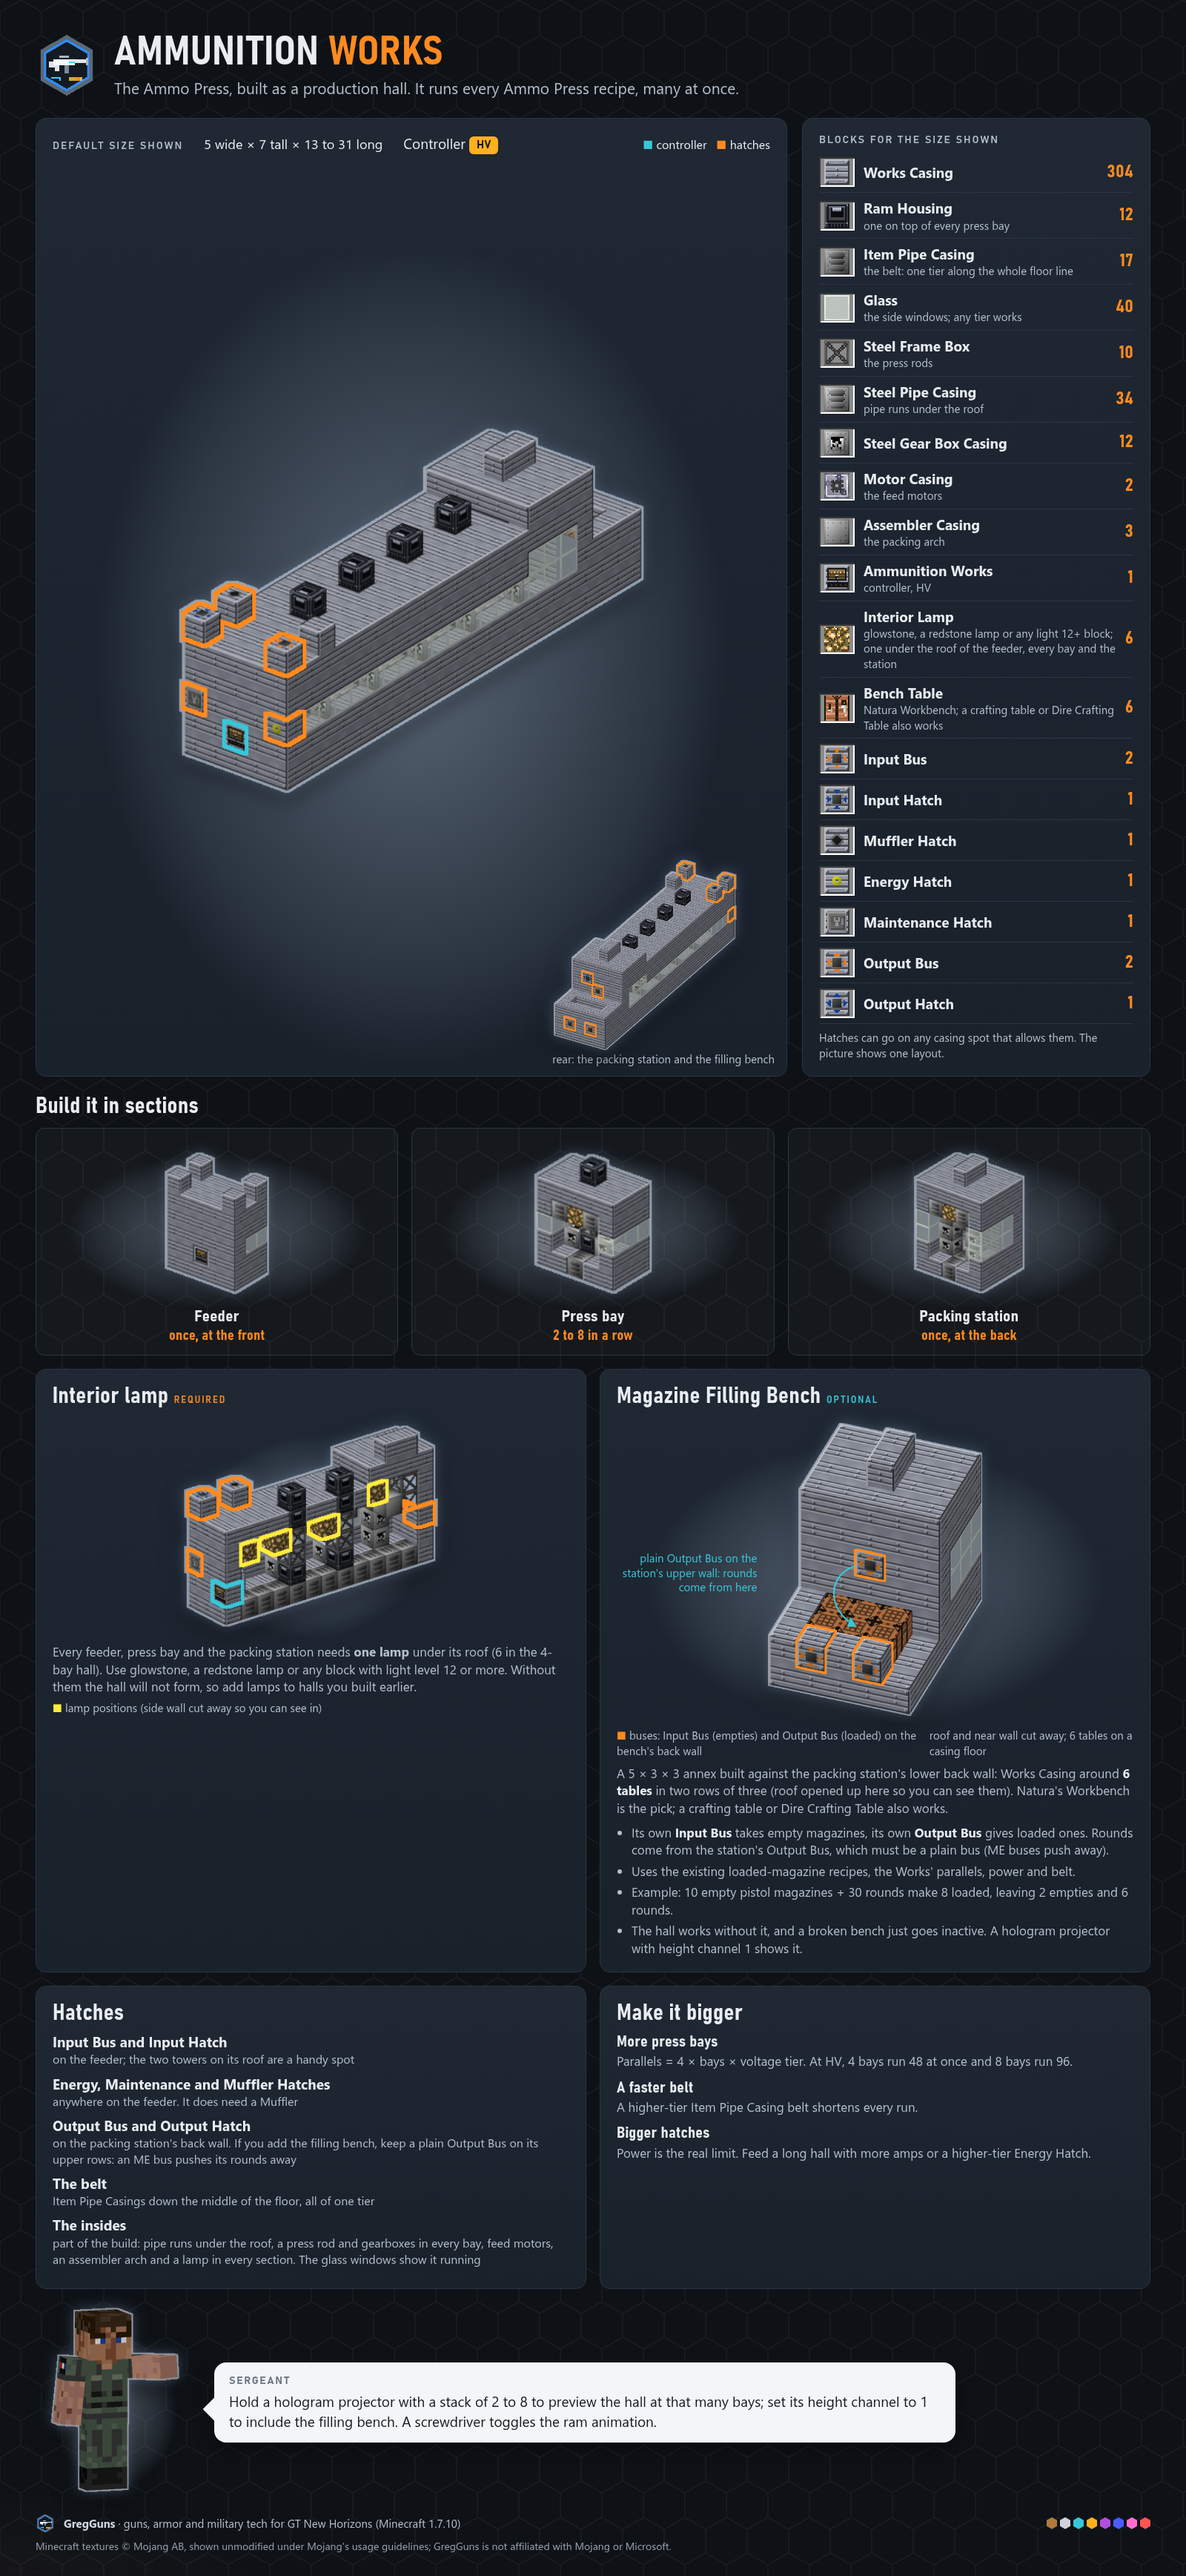
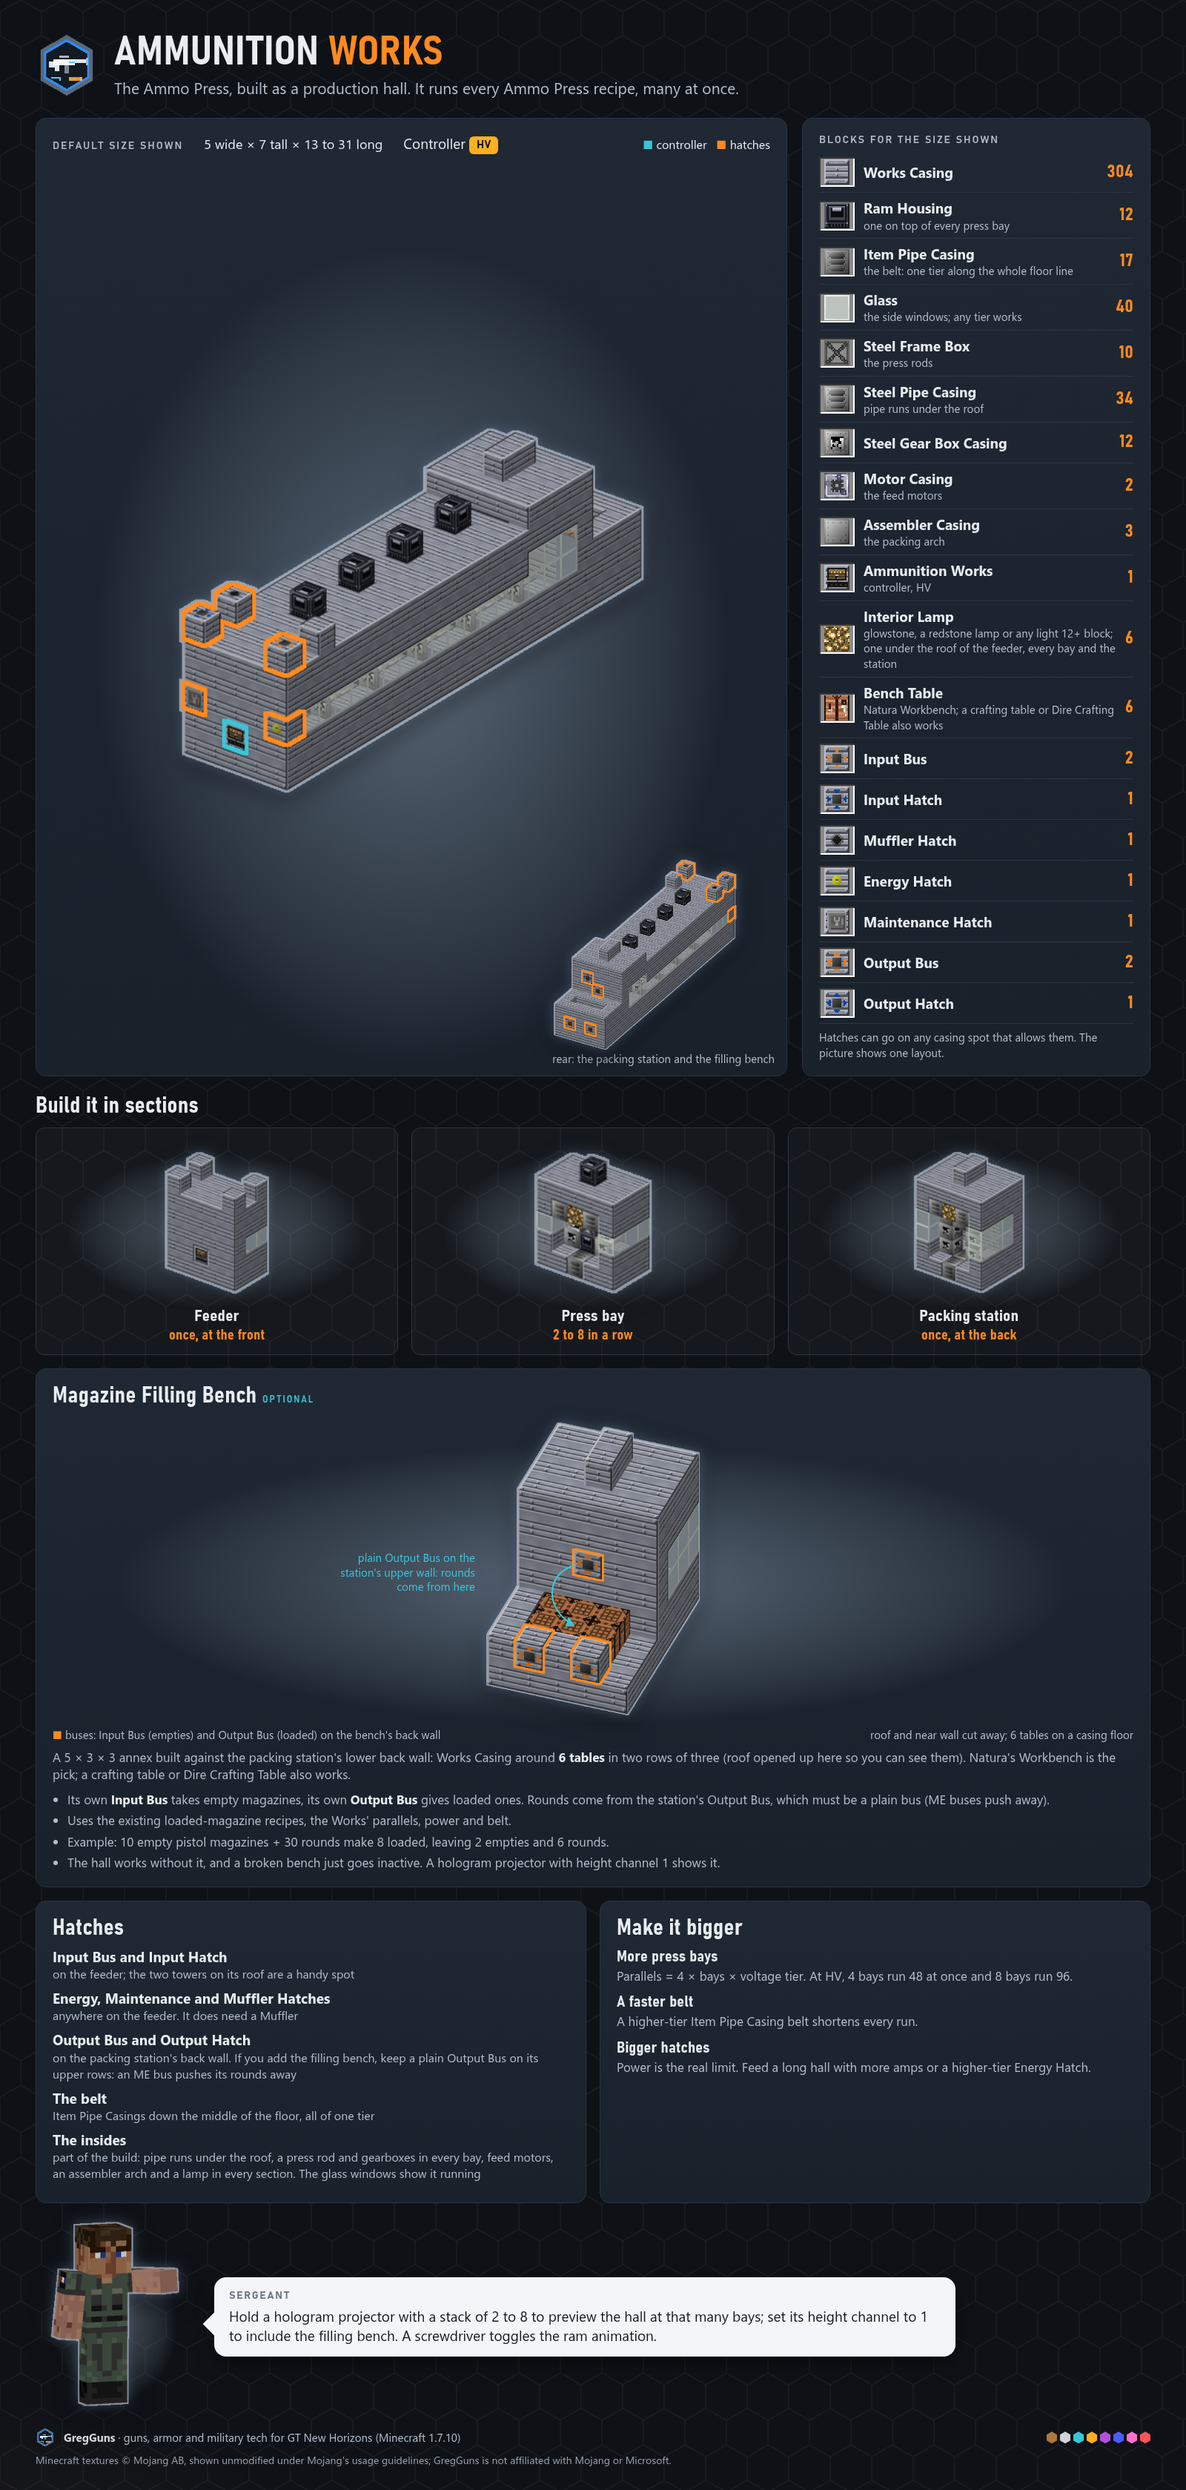
Seamless Gantry Beam hazard stripe; drop the interior-lamp card from the multiblock sheets
The Gantry Beam's stripe period (6 px) and its edge rivets did not divide the 16-px tile, so the stripe broke at
every block seam. Period 8 and rivets every 8 px make a row of beams read as one unbroken stripe. The sheets that
show the beam (Armory Gantry, machines, missile silo, detection and defense) are re-rendered.

The Ammunition Works and Armory Gantry sheets lose their dedicated interior-lamp card: the lamp stays in the block
list with its positions and in "The insides", as a plain part of the build.

diff --git a/tools/asset-gen/infographics/pages_more.py b/tools/asset-gen/infographics/pages_more.py
@@ -205,10 +205,7 @@ MB = {
         title="Ammunition <b>Works</b>",
         sub="The Ammo Press, built as a production hall. It runs every Ammo Press recipe, many at once.",
         build=lambda: S.ammo_works(4, bench=True), view=dict(yaw=-38, pitch=28, ppu=28), back=dict(yaw=150, pitch=30, ppu=30),
-        cut=dict(build=lambda: S.ammo_works(2), cut=lambda x, y, z: x <= 1, view=dict(yaw=-52, pitch=24, ppu=24)),
-        lamp_text="Every feeder, press bay and the packing station needs <b>one lamp</b> under its roof (6 in the 4-bay hall). "
-                  "Use glowstone, a redstone lamp or any block with light level 12 or more. Without them the hall will not form, "
-                  "so add lamps to halls you built earlier.",
+        mojang=True,
         pieces=[("FEEDER", "Feeder", "once, at the front"), ("BAY", "Press bay", "2 to 8 in a row"),
                 ("STATION", "Packing station", "once, at the back")],
         piece=lambda f: S.ammo_works(only=f), piece_view=dict(yaw=-38, pitch=28, ppu=18),
@@ -227,10 +224,7 @@ MB = {
         title="Armory <b>Gantry</b>",
         sub="The Repair Bench, built as a row of repair arches. It mends armor and guns from buses, ready for automation.",
         build=lambda: S.gantry(4), view=dict(yaw=-38, pitch=26, ppu=34), back=None,
-        cut=dict(build=lambda: S.gantry(2), cut=lambda x, y, z: x <= 2, view=dict(yaw=-52, pitch=24, ppu=34)),
-        lamp_text="The booth and every repair bay need <b>one lamp</b> under the beam (5 in the 4-bay gantry). "
-                  "Use glowstone, a redstone lamp or any block with light level 12 or more. Without them the gantry will not form, "
-                  "so add lamps to gantries you built earlier.",
+        mojang=True,
         pieces=[("HEAD", "Booth", "once, at the front"), ("BAY", "Repair bay", "2 to 8 in a row"),
                 ("TAIL", "Back wall", "once, at the back")],
         piece=lambda f: S.gantry(only=f), piece_view=dict(yaw=-38, pitch=26, ppu=22),
@@ -304,16 +298,8 @@ def multiblock(key):
         back = (f'<div style="position:absolute;right:16px;bottom:12px;text-align:center">'
                 f'{img(b.render(**m["back"], tag="back", marks=True), h=260)}<div class="muted" style="font-size:15px">rear: the packing station and the filling bench</div></div>')
     extra = ""
-    if m.get("cut"):
-        c = m["cut"]
-        cimg = c["build"]().render(**c["view"], tag="cut", marks=True, cut=c["cut"])
-        solo = not m.get("bench_card")
-        lamp = f"""<div class="card"><h2 style="margin-bottom:8px">Interior lamp <span class="label" style="color:var(--orange)">required</span></h2>
-<div style="display:flex;gap:{24 if solo else 0}px;align-items:center;flex-direction:{'row' if solo else 'column'}">
-<div class="spot" style="display:flex;align-items:center;justify-content:center;padding:10px {30 if solo else 0}px;flex:0 0 auto">{img(cimg, h=280, style="max-width:100%")}</div>
-<div>{muted(m["lamp_text"], 17, 8)}
-<div class="muted" style="font-size:15px;margin-top:6px"><b style="color:#ffeb3c">&#9632;</b> lamp positions (side wall cut away so you can see in)</div></div></div></div>"""
-        extra += f"""<div class="grid" style="grid-template-columns:{'1fr' if solo else '1fr 1fr'};margin-top:18px">{lamp}{m.get("bench_card", "")}</div>"""
+    if m.get("bench_card"):
+        extra = f'<div class="grid" style="grid-template-columns:1fr;margin-top:18px">{m["bench_card"]}</div>'
     body = f"""<div style="display:grid;grid-template-columns:1fr 470px;gap:20px">
 <div class="card" style="position:relative;display:flex;flex-direction:column;min-height:620px">
 <div style="display:flex;gap:28px;align-items:baseline;flex-wrap:wrap"><span class="label">Default size shown</span><span style="font-size:18px">{m["size"]}</span><span>Controller {chip(m["ctier"])}</span>
@@ -328,7 +314,7 @@ def multiblock(key):
 <div class="card"><h2 style="margin-bottom:6px">Hatches</h2>{hatches}</div>
 <div class="card"><h2 style="margin-bottom:10px">Make it bigger</h2>{grow}</div></div>
 {guide_row(m["tip"], pose=POINT, flip=True, yaw=-20)}"""
-    return page_doc(m["title"], m["sub"], body, credit=MOJANG_CREDIT if m.get("lamp_text") else "")
+    return page_doc(m["title"], m["sub"], body, credit=MOJANG_CREDIT if m.get("mojang") else "")
 
 
 # ---------------------------------------------------------------- enemies

diff --git a/tools/asset-gen/blockart.py b/tools/asset-gen/blockart.py
@@ -204,12 +204,14 @@ def gantry_beam(rng):
     c.rect(0, 13, 16, 16, steel)                               # bottom flange
     c.hline(0, 16, 13, hx("#b4bac6"))
     c.hline(0, 16, 15, hx("#4a4f59"))
-    for y in range(3, 13):                                     # yellow-black safety stripe on the web
+    # Yellow-black safety stripe on the web. The stripe period (8) and the rivet spacing (8) divide the 16-pixel
+    # tile, so a row of beams reads as one unbroken stripe with no mark at the block seams.
+    for y in range(3, 13):
         for x in range(16):
-            c.px(x, y, hx("#e0b020") if ((x + y) // 3) % 2 == 0 else hx("#202226"))
+            c.px(x, y, hx("#e0b020") if ((x + y) // 4) % 2 == 0 else hx("#202226"))
     c.hline(0, 16, 3, hx("#14161a"))
     c.hline(0, 16, 12, hx("#14161a"))
-    for x in (2, 13):
+    for x in (3, 11):
         rivet(c, x, 1, steel)
         rivet(c, x, 14, steel)
     return [c]
